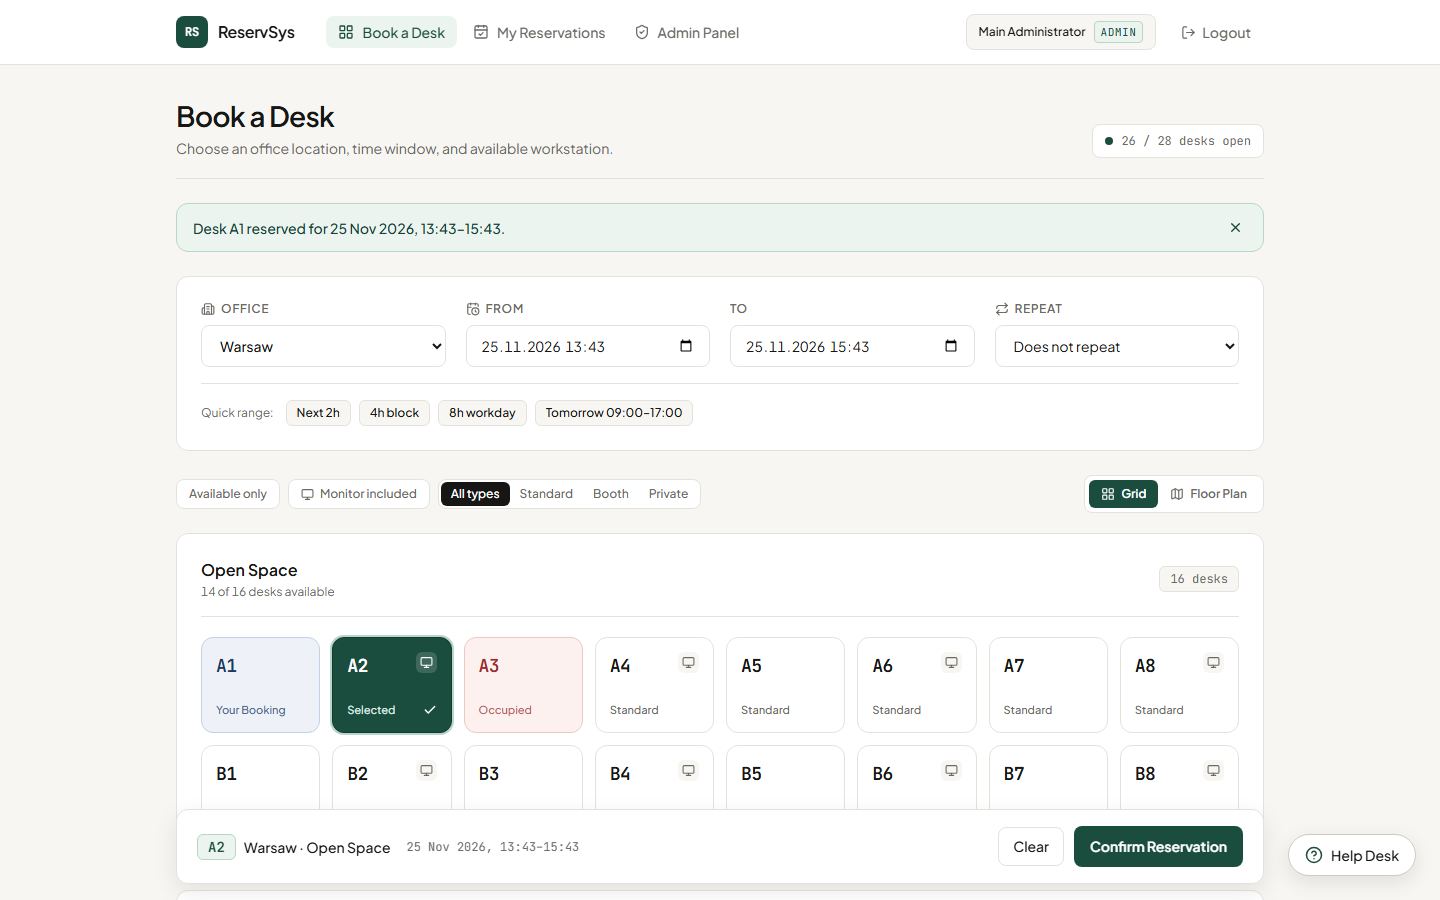
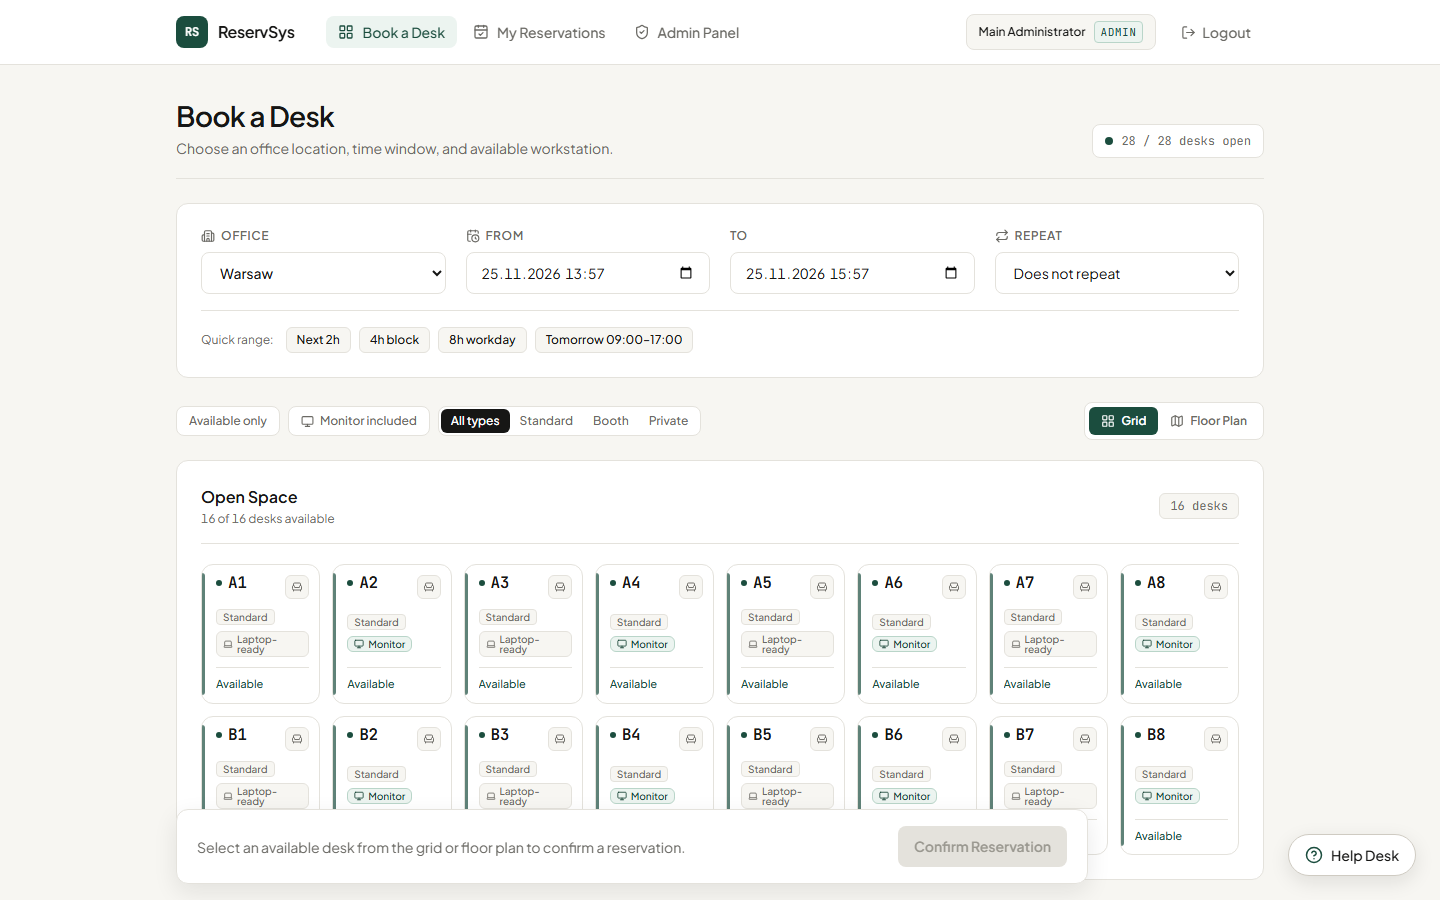
docs: update README and workstation UI screenshots

diff --git a/README.md b/README.md
@@ -17,7 +17,7 @@ A full-stack office desk reservation platform with an architectural floor plan v
 
 ### For Employees
 - **Desk Reservation** — Book workstations across multiple offices (**Warsaw** and **Poznan**) with custom start/end time windows (up to 16 hours per single reservation).
-- **Grid & Interactive Floor Plan Views** — Browse desks in a filterable card grid (filter by office, availability, external monitor, and desk type) or switch to the interactive architectural SVG floor plan (`OfficeMap`) with zone grouping and status color-coding.
+- **Grid & Interactive Floor Plan Views** — Browse desks in a filterable card grid (filter by office, availability, external monitor, and desk type) featuring color-coded vertical status strips, workstation type icons/badges (`Standard`, `Booth`, `Private`), and `Monitor` vs `Laptop-ready` equipment chips—or switch to the interactive architectural CAD SVG floor plan (`OfficeMap`) with zone grouping, desks with monitor & chair silhouettes, U-shaped acoustic booths, walled private suites with door swing arcs, and aisle/corridor framing.
 - **Recurring Reservations** — Schedule `daily` or `weekly` recurring bookings (up to 30 occurrences) with atomic all-or-nothing collision validation.
 - **Check-in Window** — Check in from **15 minutes before** until **15 minutes after** reservation start time.
 - **Personal Dashboard** — Track active bookings and reservation history, check in on arrival, cancel upcoming reservations, and read account notifications.
@@ -42,9 +42,13 @@ A full-stack office desk reservation platform with an architectural floor plan v
 ![Sign In](docs/assets/screenshots/login.png)
 
 ### 2. Desk Reservation — Grid View
+Workstation tiles with left vertical status strips, workstation type icons and badges (`Standard`, `Booth`, `Private`), and `Monitor` vs `Laptop-ready` equipment chips, paired with a sticky reservation bar that clears the Help Desk button.
+
 ![Desk Reservation Grid View](docs/assets/screenshots/seats-grid.png)
 
 ### 3. Desk Reservation — Interactive Architectural Floor Plan
+Architectural CAD SVG floor plan (`OfficeMap`) rendering standard desks with monitors and ergonomic chairs, U-shaped acoustic quiet booths, walled private suites with inward door swing arcs, `WALKWAY · AISLE` row dividers, `MAIN CORRIDOR` framing, `MAIN ENTRANCE`, and a `PLAN · CAD` compass.
+
 ![Interactive Office Floor Plan](docs/assets/screenshots/seats-map.png)
 
 ### 4. Employee Dashboard & Check-In
